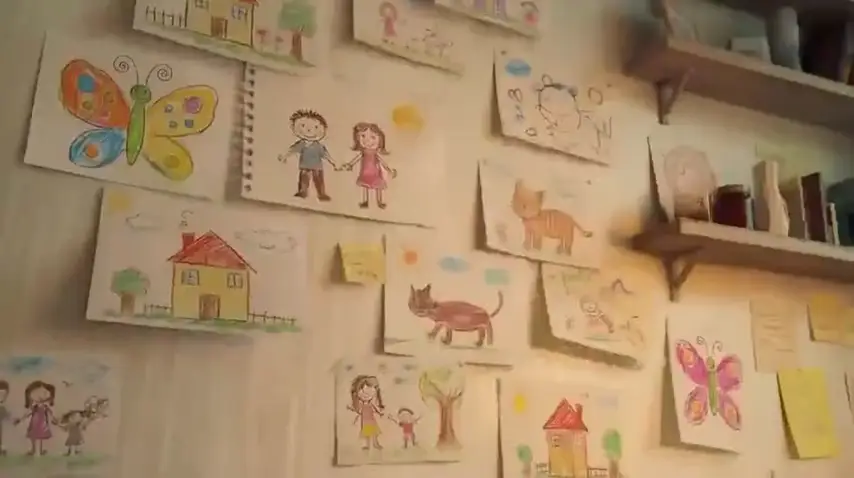
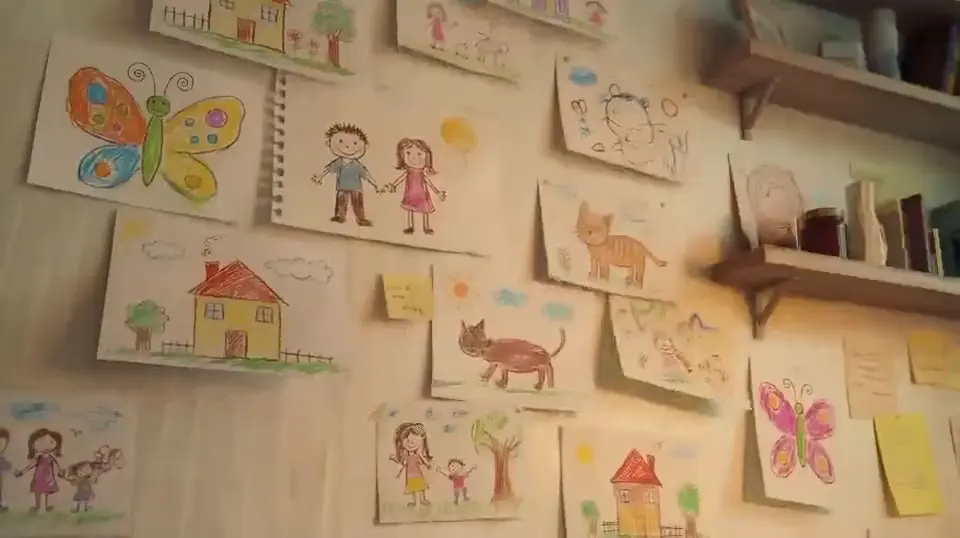
Balance hero video quality

diff --git a/index.html b/index.html
@@ -63,6 +63,6 @@
       </section>
     </main>
 
-    <script src="./src/main.js?v=20260508-light-assets-tiny-hero" type="module"></script>
+    <script src="./src/main.js?v=20260508-light-assets-balanced-hero" type="module"></script>
   </body>
 </html>